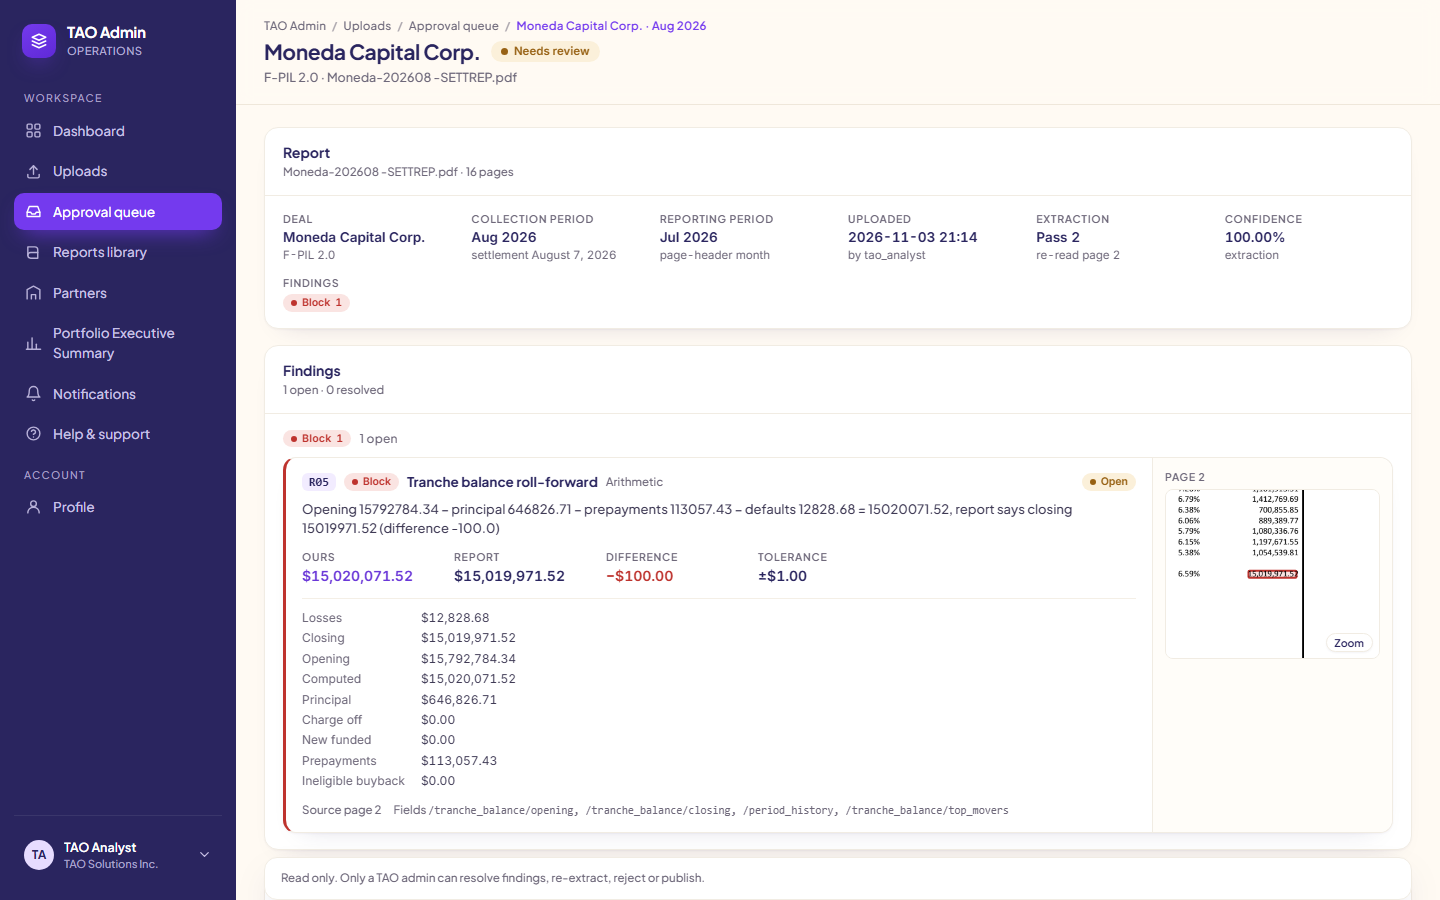
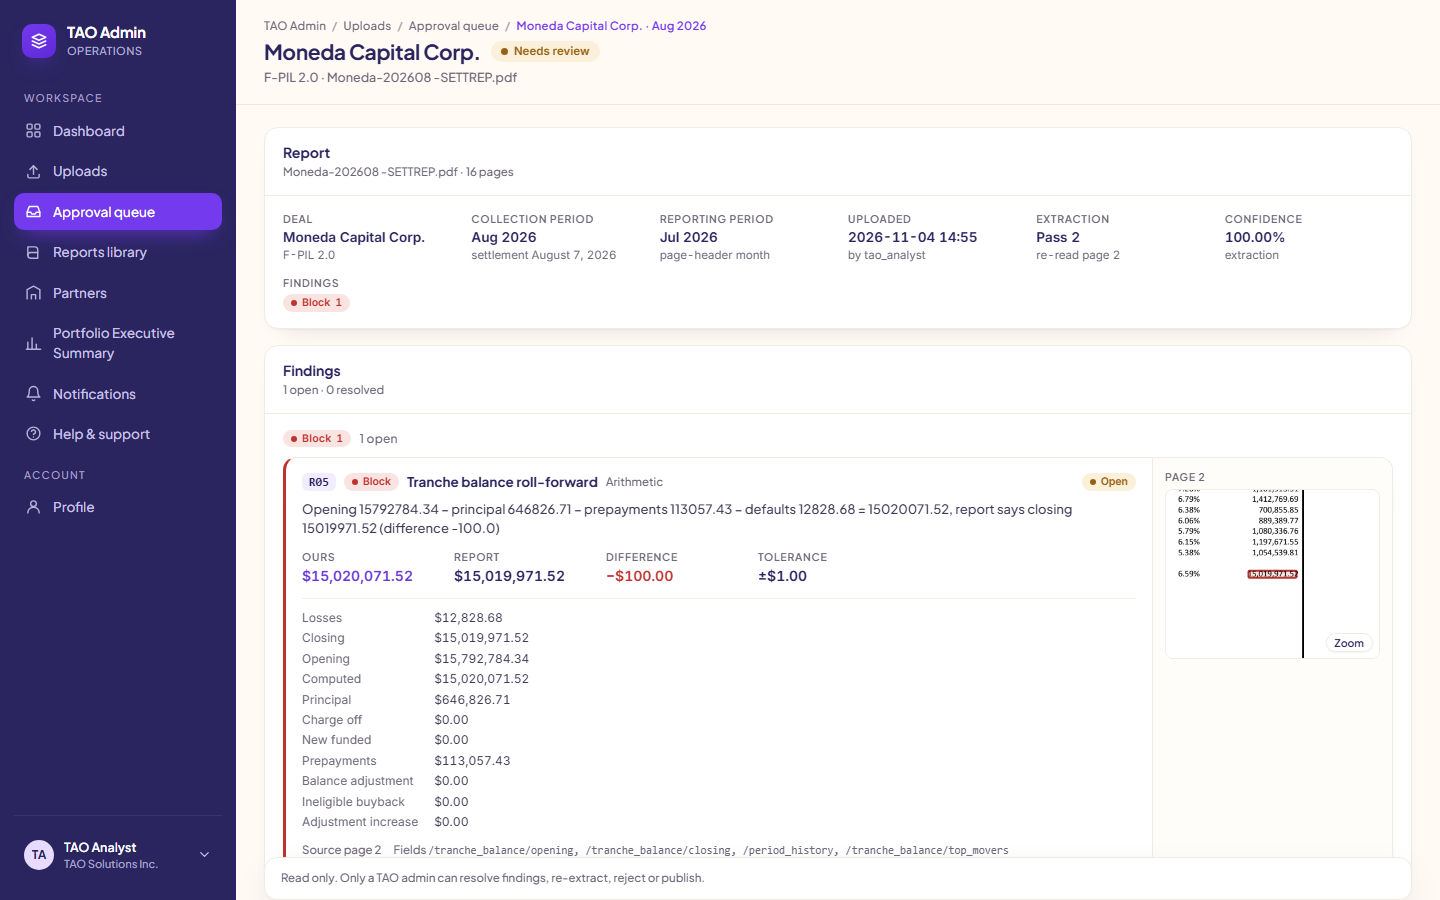
qa: demo.md step 9 walkthrough, current-behaviour text, retaken screenshots, progress entry

Changed region(s): [[0.1875, 0.6844, 0.6875, 0.9644], [0.6562, 0.2489, 0.6875, 0.28]]

diff --git a/docs/demo.md b/docs/demo.md
@@ -1,7 +1,7 @@
 # TAO Admin POC — demo walkthrough
 
-The build plan's demo script (section "Demo script and acceptance", steps 1–7), run in order from a fresh database,
-with the screenshots the Playwright tests capture on every run (`docs/demo/*.png`). Each step below is one test in
+The build plan's demo script (section "Demo script and acceptance", steps 1–7), then MOVE Trust month by month (step
+9), run in order from a fresh database, with the screenshots the Playwright tests capture on every run (`docs/demo/*.png`). Each step below is one test in
 `tests/e2e/specs/`; the negative tests sit between the steps where their state exists. Every number here comes from
 the real SetRep PDFs in `data/samples/` and the shared dashboard objects in `docs/dashboard-json/`.
 
@@ -11,13 +11,14 @@ On a clean Windows machine with Docker Desktop, Node 20+, Python 3.11+ (`pip ins
 
 ```sh
 cp .env.example .env                        # fill in ANTHROPIC_API_KEY
-# put the 12 SetRep PDFs in data/samples/ (Moneda, Stride, Xpedite, 202605-202608)
+# put the 12 F-PIL SetRep PDFs in data/samples/ (Moneda, Stride, Xpedite, 202605-202608)
+# and the MOVE Trust PDFs in data/samples/move-trust/ (step 9 uses Essex, TLFC_LP and Finloc, 202604-202607)
 docker compose up -d --build
 docker compose exec api python -m app.seed  # Git Bash: prefix MSYS_NO_PATHCONV=1 if a path argument is mangled
 cd tests/e2e
 npm ci
 npx playwright install chromium
-npm run test:e2e                            # setup + the seven steps + negatives, about 4 minutes
+npm run test:e2e                            # setup + steps 1-7 + negatives + step 9, about 8 minutes
 npm run lighthouse                          # optional: accessibility on the four main pages, after test:e2e
 ```
 
@@ -32,7 +33,7 @@ cd tests/e2e && E2E_WEB_URL=http://localhost:15500 E2E_API_URL=http://localhost:
 ```
 
 **Reset.** The demo needs a fresh database: the setup test stops with a clear message if Xpedite, Moneda or Stride
-2026-08 has already been uploaded. Reset with `docker compose down -v`, then `up -d` and the seed again (add
+2026-08 has already been uploaded, and step 9 stops the same way if any of its MOVE Trust months has. Reset with `docker compose down -v`, then `up -d` and the seed again (add
 `-p tao-qa -f docker-compose.yml -f scripts/compose.agent.yml` for the private stack).
 
 **What the setup does.** `tests/e2e/setup/demo.setup.ts` checks the stack is up, seeded and fresh, builds the
@@ -72,7 +73,8 @@ A page link opens the page image at that value.
 
 ![Page viewer](demo/02-page-viewer.png)
 
-Publish to partner › Approve and publish. The status becomes Published; the Activity card and the Audit log show
+Publish to partner › Approve and publish. The dialog says the report goes to the Investor and Manager portals, the
+two partners F-PIL 2.0 is shared with. The status becomes Published; the Activity card and the Audit log show
 Approve and Publish by `tao_admin`.
 
 ![Publish dialog](demo/02-publish-dialog.png)
@@ -81,7 +83,11 @@ Approve and Publish by `tao_admin`.
 
 ### Step 3. Investor and Manager viewers see the deal; the numbers match the shared dashboard
 
-Switched to Investor · Viewer: Portfolio Executive Summary › F-PIL 2.0 › Open deal Xpedite Leasing.
+Switched to Investor · Viewer: Portfolio Executive Summary › F-PIL 2.0 › Open deal Xpedite Leasing. The program
+month is now August, and every deal stays in it: Moneda and Stride have nothing published for August yet, so their
+cards show July with a blue "As of Jul 2026" pill and the totals carry one line, "Moneda Capital Corp. (Jul 2026) and
+Stride Capital (Jul 2026) are behind; their Aug 2026 reports are not published yet." Each Open deal link carries the
+deal's own month (`?period=`).
 
 ![Portfolio summary](demo/03-portfolio-summary.png)
 ![Program summary](demo/03-program-summary.png)
@@ -142,7 +148,8 @@ Moneda 2026-08 closing is ours, $15,020,071.52, and the deal's `data_corrections
 
 ### Step 6. TAO Analyst uploads the following month
 
-Stride Capital 2026-08, after Stride 2026-07 is published. No R11 finding: the extracted opening balance and
+Stride Capital 2026-08, after Stride 2026-07 is published. Until it is published, the program API lists Stride in
+`deals_behind` as of 2026-07; afterwards it does not. No R11 finding: the extracted opening balance and
 opening contracts equal July's published closing. Two R14 review findings, no block; TAO Admin publishes it. The
 F-PIL 2.0 program dashboard now shows 3 deals for August 2026.
 
@@ -192,26 +199,92 @@ Regenerate by `tao_admin`. The investor deal page for May 2026 now serves the re
 - Partner roles get 403 on `/uploads`, `/audit`, `/master/*` and regenerate, and `/admin` URLs send them back to
   their portal. An analyst gets "You don’t have access" on the Audit log page and 403 on `/audit` (Partners is
   read-only for analysts).
-- A blank PDF ends in `extraction_failed`; the page says "Extraction failed. Check the audit log for the reason,
-  then upload the file again." and the audit reason reads "page 1 has no text layer; cover block not found (no page
-  has text: scanned or blank PDF, OCR fallback not built yet)". The test rejects it afterwards.
+- A blank PDF ends in `extraction_failed`. The upload card states the worker's reason (`Upload.failure_reason`):
+  "Extraction failed: page 1 has no text layer; cover block not found (no page has text: scanned or blank PDF, OCR
+  fallback not built yet)", followed by what to do next. The test rejects it afterwards.
 
 ![Blank PDF](demo/08-blank-pdf-failed.png)
 
-## Acceptance (build plan), measured 2026-11-03
+## Journey 4 — MOVE Trust, month by month
+
+### Step 9. Restatements a reviewer meets, and a deal behind the program month
+
+MOVE Trust has nine deals and real reports from April to July 2026. The test takes three of them through nine
+uploads, the fewest that show what a reviewer meets on this program. A MOVE report names its own month: the file
+`Essex - 202605 - SETTREP.pdf` is collection period 2026-05 and reporting period 2026-05 (R04's lag is 0 for this
+template). Each month is uploaded by the TAO Analyst and published by the TAO Admin before the deal's next month.
+
+**April.** Essex Lease Financial Corp., TLFC LP (Leases) and Finloc 2000 Inc. 2026-04 go up through the API and
+reach needs review with no Block (Finloc carries one R19 Note, MSA 8.1 (d) moving to BREACH). The admin publishes
+each one.
+
+**Essex May restates April.** The analyst uploads `Essex - 202605 - SETTREP.pdf` through the form. It stops at needs
+review with two R11 Blocks and one R19 Note. Each R11 is a restatement: the May report prints April's ratios again,
+with different values from the April report already published.
+
+![Essex May needs review](demo/09-essex-may-needs-review.png)
+
+- Debt-to-equity for 2026-04 was 6.35 in the published April report; the May report says 6.22.
+- Interest coverage for 2026-04 was 1.15 in the published April report; the May report says 1.12.
+
+![Essex R11 restatements](demo/09-essex-r11-restatements.png)
+
+Switched to TAO Admin, on each card: Accept as restatement for R11, reason "servicer restated the April ratios in the
+May report", Save and re-run rules. The card reads "Accepted as restatement"; after the second, "Rules re-ran. No
+block findings open." Publish to partner shows "2 findings resolved with a reason" and the Investor and Manager
+portals; Approve and publish. The audit log has one Restatement accepted row per finding, with the reason.
+
+![Restatement dialog](demo/09-restatement-dialog.png)
+![Essex publish dialog](demo/09-essex-publish-dialog.png)
+
+The published Essex May deal carries 1.12 and 6.22 in its April ratio row, and its `restatements` list records both
+changes (2026-04 as reported in April, then in May), the same as the start of the list in
+`docs/dashboard-json/move-trust-essex-lease-financial-corp.dashboard.json`.
+
+**A deal behind.** Essex May is now published and TLFC LP's and Finloc's May are not. The MOVE Trust program month is
+May 2026, and the two deals still contribute April. As Investor · Viewer, Portfolio Executive Summary › MOVE Trust:
+TLFC LP and Finloc carry a blue "As of Apr 2026" pill, Essex does not, and the totals say "… are behind; their May
+2026 reports are not published yet." The program API lists both in `deals_behind` as of 2026-04.
+
+![MOVE Trust with two deals behind](demo/09-program-deals-behind.png)
+
+**TLFC LP June restates the RVL ratio.** TLFC LP May (no findings) and Finloc May are published. TLFC LP June then
+reaches needs review with two R11 Blocks: the RVL ratio for 2026-04 and for 2026-05 was 0.00% in the published May
+report, and the June report says 0.112487% for both. The admin accepts both as restatements with the reason
+"servicer restated the April and May RVL ratio in the June report" and publishes. The published June deal's ratio
+history and `restatements` match the reference object.
+
+![TLFC LP R11 restatements](demo/09-tlfc-r11-restatements.png)
+
+**Finloc's currency revaluation is not a break.** Finloc carries CAD and USD tranches. Its opening balance in CAD
+equivalent differs from the prior month's published closing by the USD revaluation: +$64,124.04 in May,
++$106,968.53 in June, −$47,609.31 in July. R11 compares each currency in its own units, where the opening equals the
+prior closing, so none of the three months raises R11 (or any Block). The test checks the gap, the CAD opening
+against the prior CAD closing, and the empty R11 list for each month.
+
+**The reference period.** Finloc July is the period the MOVE reference objects were taken at. The MOVE Trust program
+page now shows July 2026, with Essex "As of May 2026" and TLFC LP "As of Jun 2026". Open deal Finloc 2000 Inc.: the
+test reads the 209 numbers on the deal page and compares each with the published object and with
+`docs/dashboard-json/move-trust-finloc-2000-inc.dashboard.json`: 0 mismatches, largest money difference $0.01. The
+deal offers four periods (2026-04 to 2026-07).
+
+![MOVE Trust in July](demo/09-program-july.png)
+![Finloc deal page](demo/09-finloc-deal-page.png)
+
+## Acceptance (build plan), measured 2026-11-04
 
 Two runs on the QA stack (Windows 11, Docker Desktop), each from `docker compose down -v`, then `up -d` (images
-built), seed, `npm run test:e2e`; both 18 of 18 green.
+built), seed, `npm run test:e2e`; both 21 of 21 green (18 for steps 1–8 as before, 3 for step 9).
 
 | Criterion | Pass | Measured |
 | --- | --- | --- |
-| Both sample SetReps extract with no null required field | Yes / No | Yes for the F-PIL template: every F-PIL PDF the demo uploads reaches needs review; the schema validation is the Extraction agent's suite. No MOVE Trust SetRep exists to test. |
+| Both sample SetReps extract with no null required field | Yes / No | Yes for both templates the demo uses: every F-PIL PDF and the nine MOVE Trust PDFs of step 9 (Essex, TLFC LP, Finloc) reach needs review; the schema validation is the Extraction agent's suite. |
 | Rules 1–18 each have a passing and a failing fixture and run in under 2 s | Yes / No | Pass and fail fixtures for R01–R15, R17–R19 under `rules/tests/fixtures/`; R16 (program-level SetRep) has none because no such SetRep exists. Timing is the Rules suite's `test_reference_findings_validate_and_run_fast`. |
-| Published deal page equals the shared dashboard for the same deal and period | Every metric within $1 / 0.01 pp | Yes. Xpedite Leasing 2026-08: 154 numbers on the page, 0 mismatches against the published object and the reference, largest money difference $0.00, for the investor and the manager. |
+| Published deal page equals the shared dashboard for the same deal and period | Every metric within $1 / 0.01 pp | Yes. Xpedite Leasing 2026-08: 154 numbers on the page, 0 mismatches against the published object and the reference, largest money difference $0.00, for the investor and the manager. MOVE Trust Finloc 2000 Inc. 2026-07: 209 numbers, 0 mismatches, largest money difference $0.01. |
 | A partner role cannot reach another partner's data by URL or API | Verified by test | Yes: `specs/08-negatives.spec.ts` (4 tests). With both programs shared, this rests on the X-Partner checks (other, unknown, missing partner) and the portal redirect. |
-| Time from upload to needs review on a 20-page SetRep | Under 3 minutes | Yes. 4–15 s per report (13–17 pages) across both runs: Stride 4–7 s, Moneda 5–11 s, Xpedite 9–15 s; the seeded Moneda with its second pass 7–11 s. |
+| Time from upload to needs review on a 20-page SetRep | Under 3 minutes | Yes. 3–26 s per report across both runs. F-PIL (13–17 pages): Stride 3–9 s, Moneda 5–17 s (the seeded copy with its second pass included), Xpedite 7–26 s. MOVE Trust (18–29 pages): Essex 11–19 s, Finloc 12–18 s, TLFC LP 17–23 s. |
 | Every number on the Review report has a page reference | 100% | Yes. Xpedite 2026-08: 94 page links, 8 values carried from the July publication (labelled so), 0 "no source"; 27 of 27 key-value rows referenced. |
 | Lighthouse accessibility on the four main pages | 90 or higher | Yes. TAO Admin dashboard 100, Review report 96, Portfolio executive summary 100, Deal page 100. The one failure is colour contrast on the Review report's resolved finding card (layer and value labels, the Block pill, our value). |
-| Full demo from `docker compose up` on a clean Windows machine | Under 10 minutes including seed | Yes. Run 1: 5 min 16 s (start and seed 55 s, tests 4 min 21 s). Run 2: 4 min 43 s (50 s, 3 min 53 s). Images were already built and web dependencies already in `web/node_modules`; a first `up --build` added about 2 minutes in earlier runs. |
+| Full demo from `docker compose up` on a clean Windows machine | Under 10 minutes including seed | Yes. Run 1: 8 min 38 s (start and seed 47 s, tests 7 min 51 s, of which step 9 about 3 min 10 s). Run 2: 7 min 25 s (36 s, 6 min 49 s; step 9 about 3 min). Images were already built and web dependencies already in `web/node_modules`; a first `up --build` added about 2 minutes in earlier runs. |
 
 Per-report extraction times are written to `tests/e2e/.cache/measurements.jsonl` on every run.

diff --git a/docs/progress.md b/docs/progress.md
@@ -2,6 +2,22 @@
 
 Append an entry when a work package lands. Newest first.
 
+- 2026-11-04 — QA & Demo, MOVE Trust in the demo (merged main b40a3f3): `specs/09-move-trust.spec.ts`, three tests in
+  order. 9a: Essex, TLFC LP and Finloc April uploaded by the analyst and published by the admin (API); Essex May through
+  the upload form gets two R11 restatement Blocks (April ICR 1.15 → 1.12, D/E 6.35 → 6.22), the admin accepts each as a
+  restatement with a reason and publishes; the MOVE program (May) then shows TLFC LP and Finloc "As of Apr 2026"
+  (`deals_behind` too). 9b: TLFC LP May, Finloc May, then TLFC LP June with two R11 restatements (Apr and May RVL ratio
+  0 → 0.112487%) accepted in the UI and published. 9c: Finloc June and July; Finloc May–July raise no R11 (CAD-equivalent
+  gap = revaluation +64,124.04 / +106,968.53 / −47,609.31, CAD opening = prior CAD closing); Finloc July investor deal
+  page vs `move-trust-finloc-2000-inc.dashboard.json`: 209 numbers, 0 mismatches. Published ratio_history and
+  `restatements` checked against the references. Facts in `lib/facts.ts` (DEALS essex / tlfcLp / finloc, MOVE,
+  STEP9). `lib/deal.ts`: rows sharing an id (Finloc's two "MSA (Definitions)" covenants) now match by occurrence.
+  docs/demo.md: step 9 walkthrough with 8 new screenshots; steps 2, 3, 6 and the blank-PDF negative follow main
+  (both portals in the publish dialog, "As of Jul 2026" on F-PIL, deals_behind, failure_reason on the card); every
+  screenshot retaken. Two clean runs from `down -v`: 21/21 and 21/21, 8 min 38 s and 7 min 25 s including start and
+  seed; step 9 about 3 min. Nine uploads instead of seven because Finloc must reach July for May–July and for the
+  reference comparison (MOVE extraction 11–23 s each). Run: as docs/demo.md, with data/samples/move-trust/ in place.
+  The five orphaned screenshots listed in requests.md (2026-11-03) are still in docs/demo/ for the Lead to remove.
 - 2026-11-04 — UI-Partner, latest month (merged main 9ce35c8 and lead/latest-month cb12a95): built against
   `PublishedProgram.deals_behind`. A deal behind the program month shows a blue "As of Jul 2026" pill (dot plus word)
   on its Program Executive Summary card, its Program Dashboard deal row and covenant rows, its Portfolio flagged-deal
